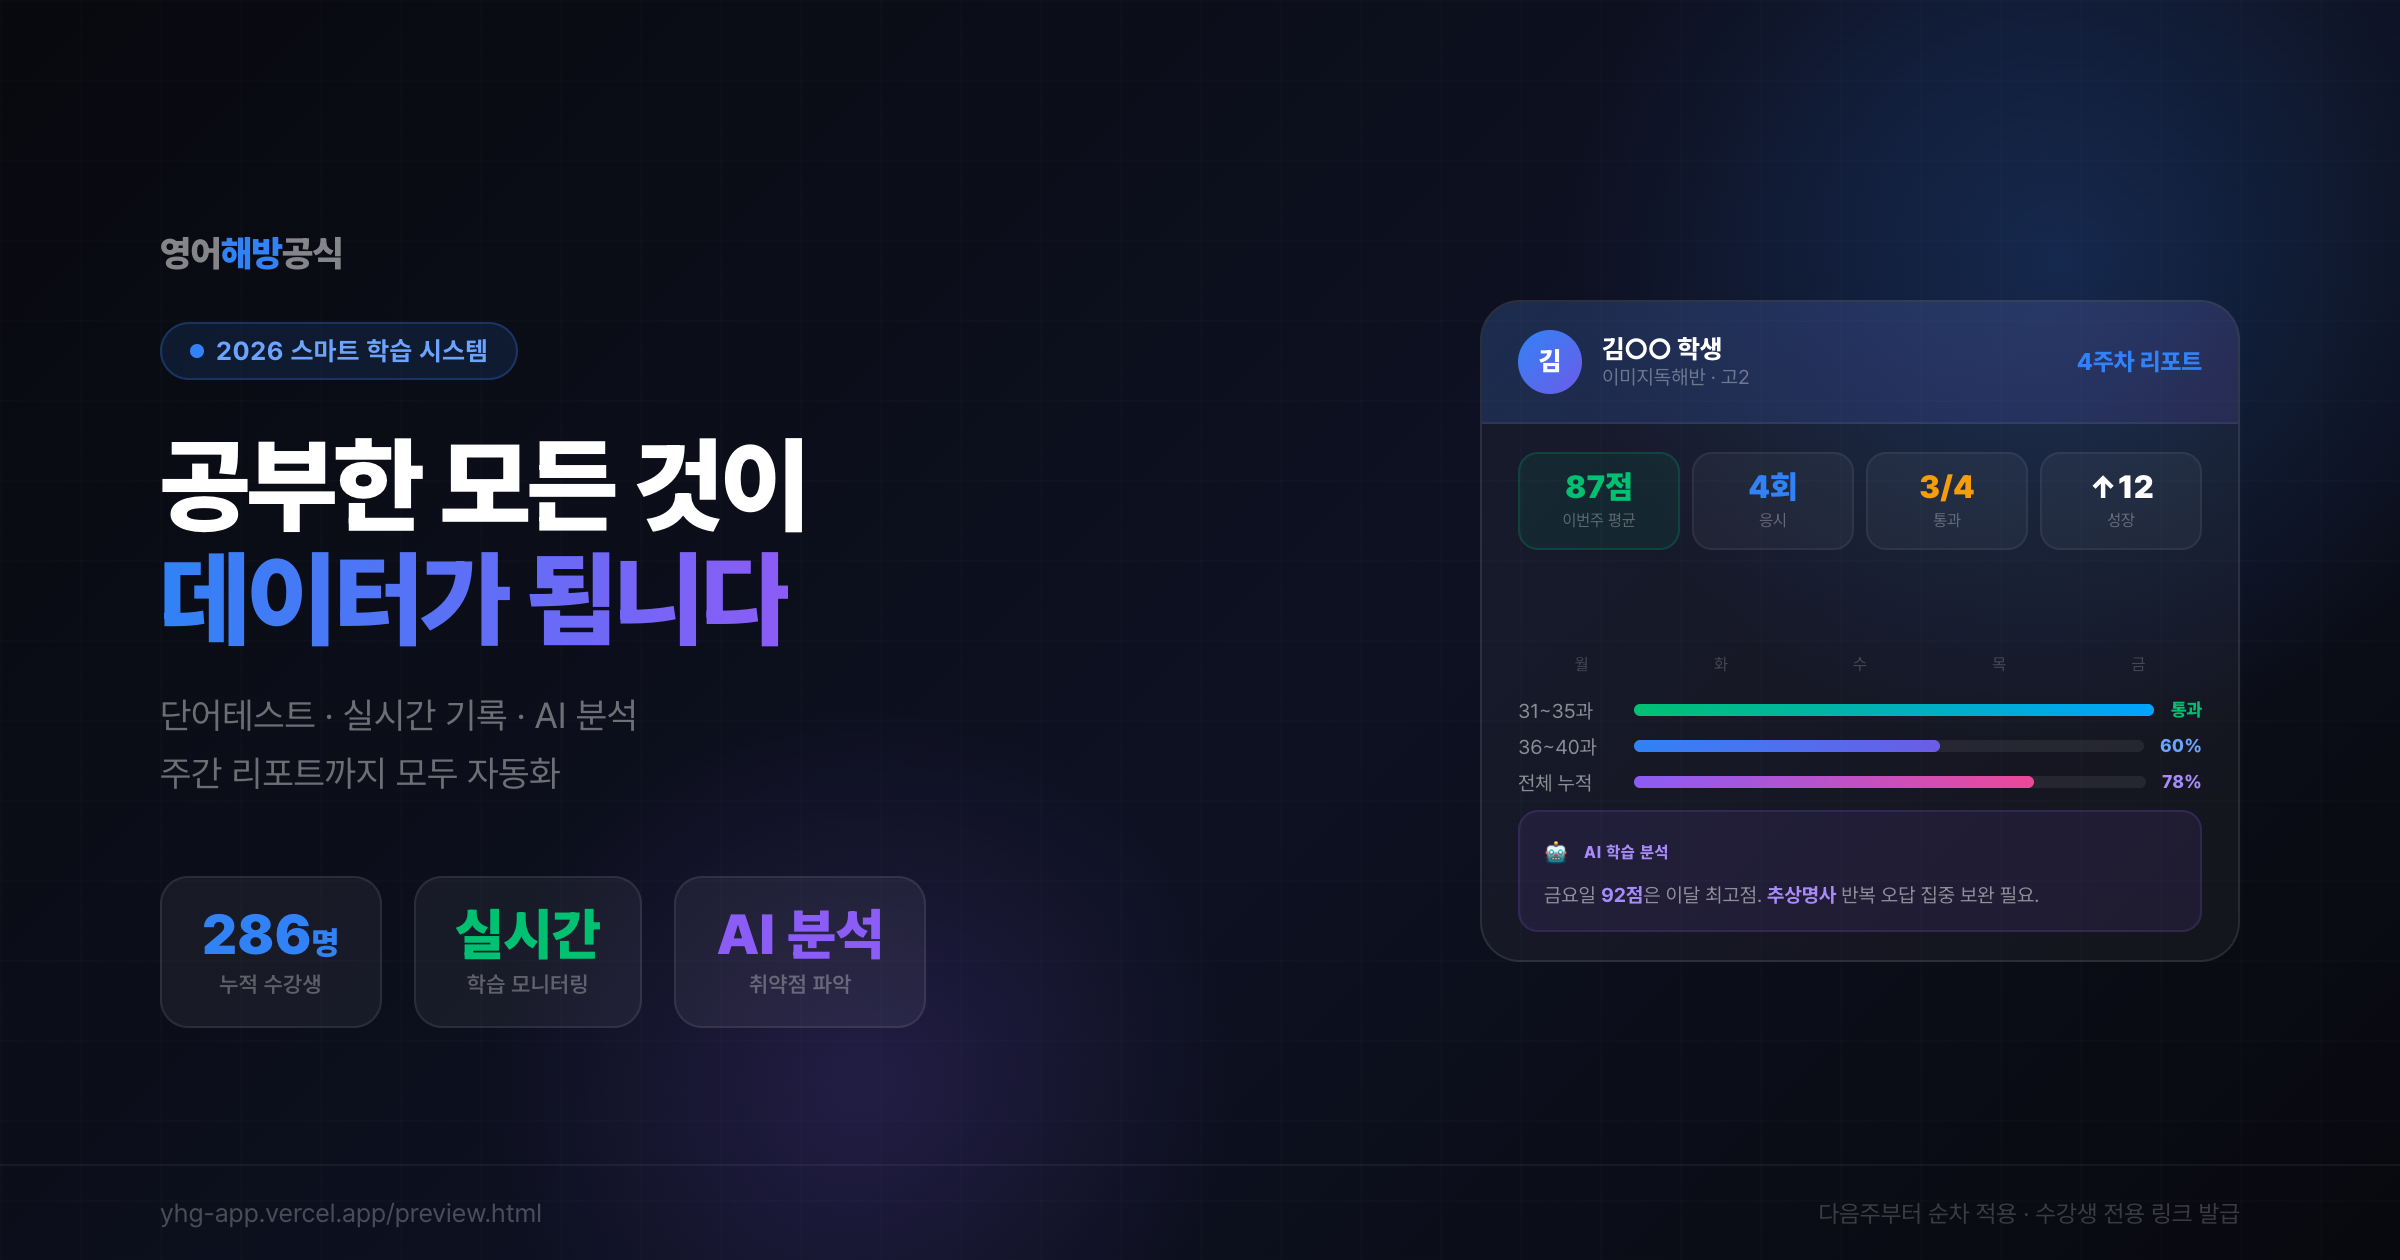
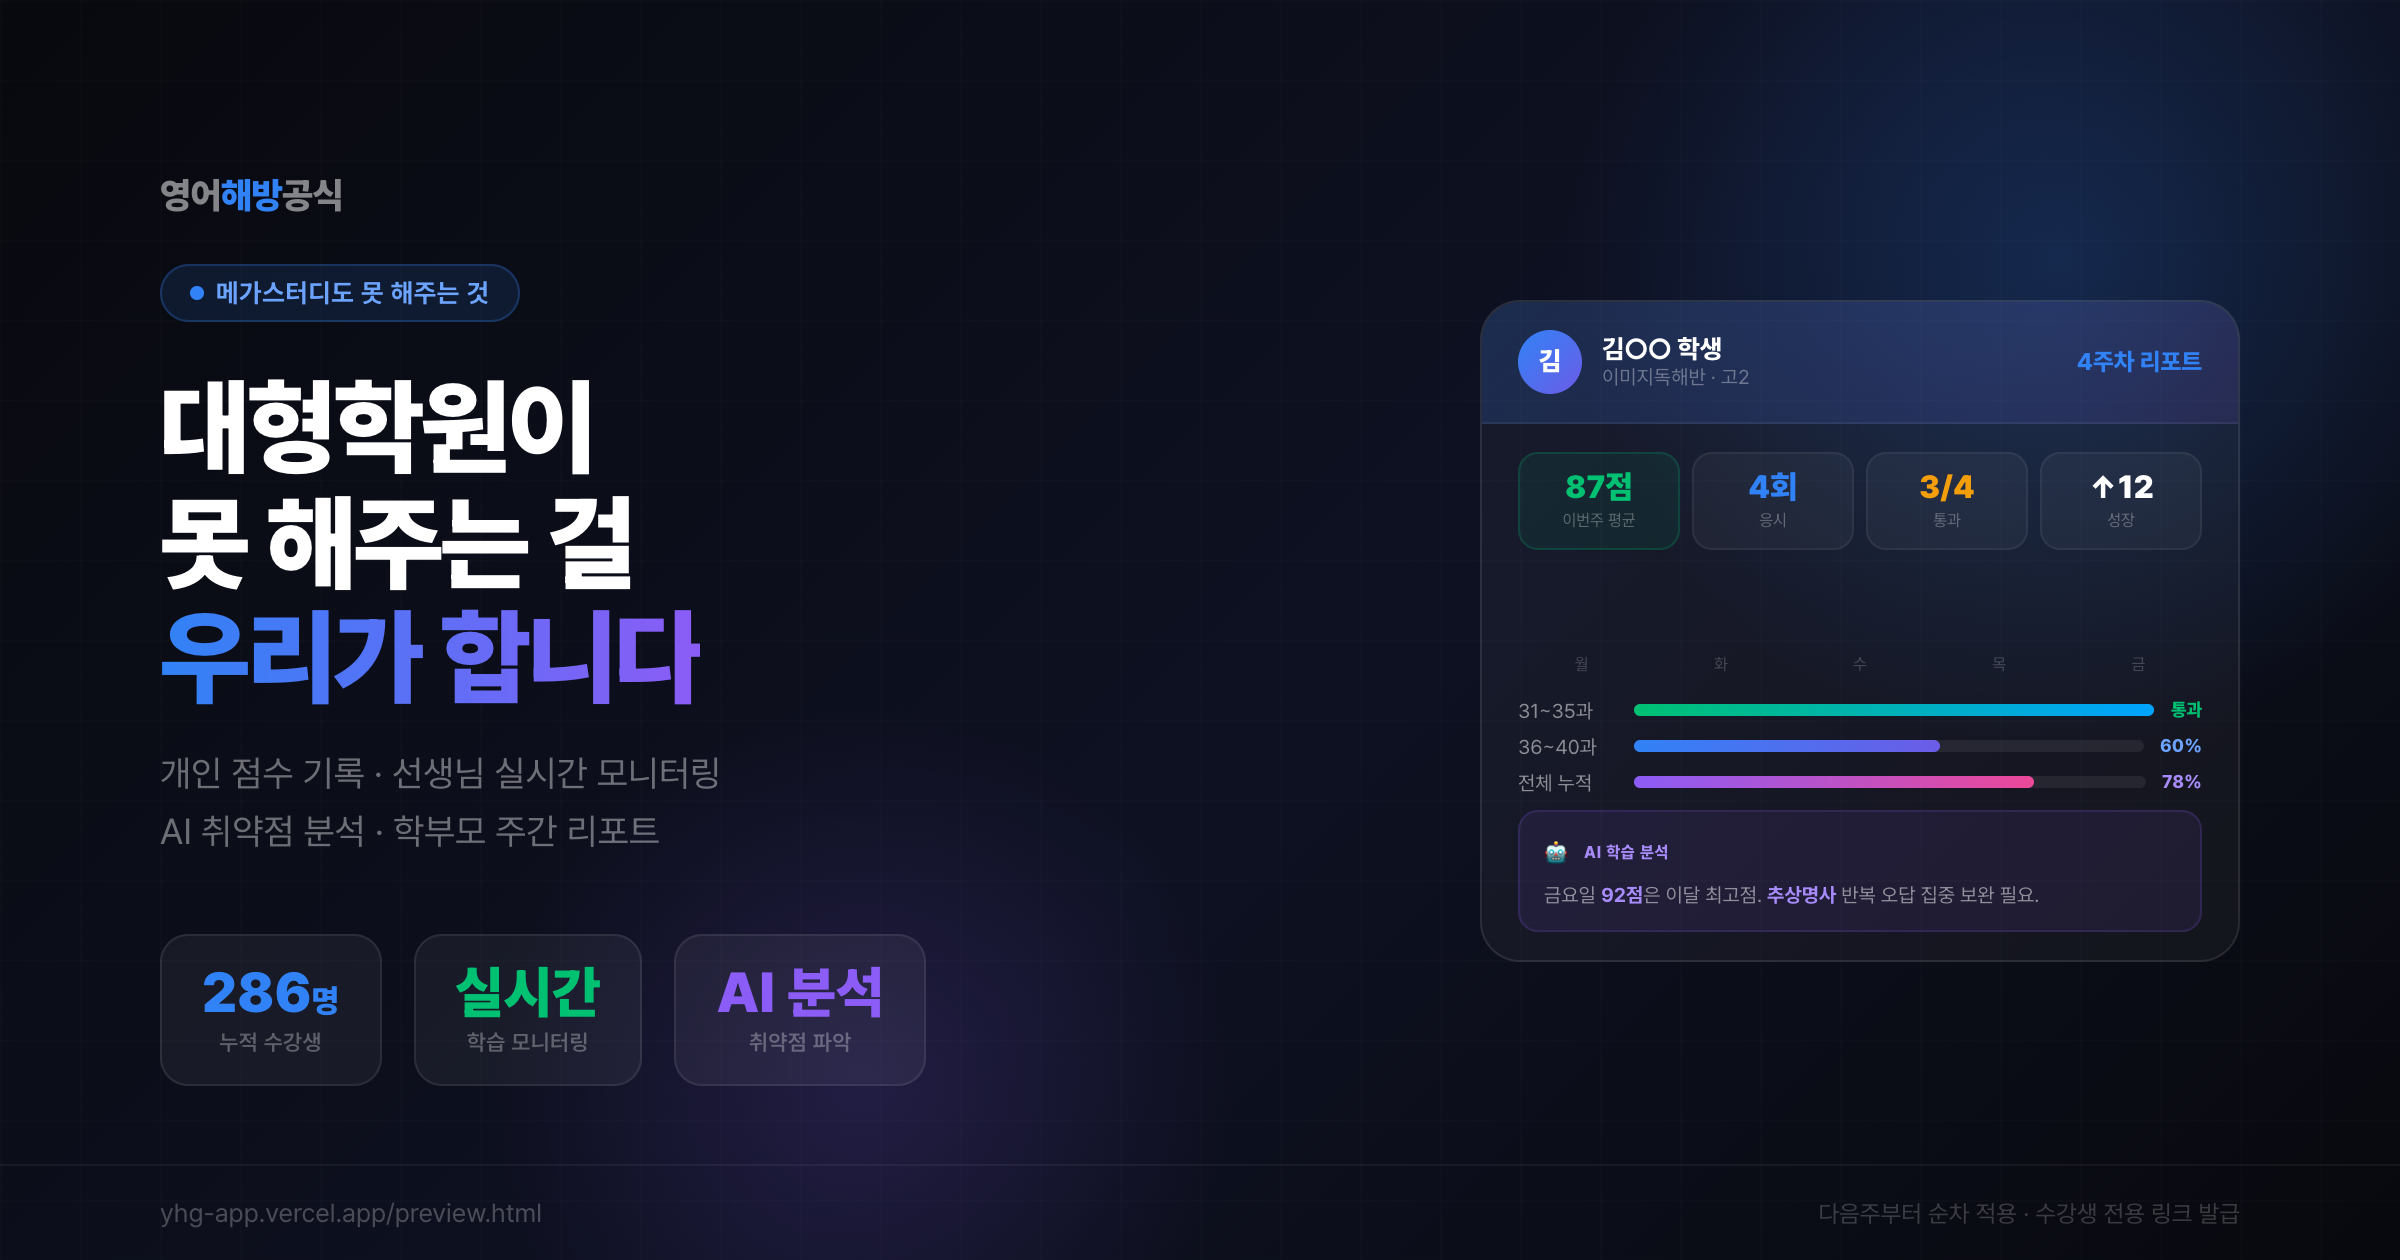
킬러 메시지 강화 — 대형학원 비교 섹션 추가 + 히어로 카피 교체

diff --git a/preview.html b/preview.html
@@ -276,9 +276,9 @@ section{padding:72px 24px;max-width:540px;margin:0 auto;position:relative}
     <div class="live-pill"><span class="live-dot"></span><span class="live-txt">LIVE</span></div>
   </div>
 
-  <div class="section-label">2026 스마트 학습 시스템</div>
-  <h1 class="hero-title">공부한 모든 것이<br><span class="grad">데이터가 됩니다</span></h1>
-  <p class="hero-sub">단어 하나 틀린 것도, 몇 시에 공부했는지도.<br>선생님이 실시간으로 모든 학생을 봅니다.</p>
+  <div class="section-label">영어해방공식만 할 수 있는 것</div>
+  <h1 class="hero-title">메가스터디도<br>못 해주는 것을<br><span class="grad">해드립니다</span></h1>
+  <p class="hero-sub">대형학원은 강의만 줍니다.<br>우리는 <strong style="color:rgba(255,255,255,.8)">내 아이 데이터</strong>를 줍니다.<br>단어 하나 틀린 것도, 선생님이 실시간으로 압니다.</p>
 
   <div class="stats-row">
     <div class="stat">
@@ -303,7 +303,66 @@ section{padding:72px 24px;max-width:540px;margin:0 auto;position:relative}
 
 <div class="section-divider"></div>
 
-<!-- ━━ SECTION 2: PIPELINE ━━ -->
+<!-- ━━ SECTION 2: COMPARISON ━━ -->
+<section id="compare-section" style="background:linear-gradient(180deg,#08090E,#0C0F1A 50%,#08090E)">
+  <div class="section-label">왜 영어해방공식인가</div>
+  <h2 style="font-size:26px;font-weight:900;letter-spacing:-.5px;margin-bottom:8px">대형학원과<br>결정적으로 다릅니다</h2>
+  <p style="font-size:14px;color:rgba(255,255,255,.4);line-height:1.6;margin-bottom:28px">수십만 명을 관리하는 곳에서<br>내 아이 한 명을 볼 수는 없습니다.</p>
+
+  <div style="display:flex;flex-direction:column;gap:10px">
+
+    <!-- 헤더 -->
+    <div style="display:grid;grid-template-columns:1fr 1fr 1fr;gap:8px;padding:0 4px">
+      <div style="font-size:10px;font-weight:700;color:rgba(255,255,255,.25);letter-spacing:.5px;padding-left:4px">항목</div>
+      <div style="font-size:11px;font-weight:800;color:rgba(255,255,255,.25);text-align:center;padding:6px 8px;background:rgba(255,255,255,.03);border-radius:8px">대형학원<br><span style="font-size:9px;font-weight:600;color:rgba(255,255,255,.2)">(메가·대성 등)</span></div>
+      <div style="font-size:11px;font-weight:800;color:#3182F6;text-align:center;padding:6px 8px;background:rgba(49,130,246,.08);border:1px solid rgba(49,130,246,.2);border-radius:8px">영어해방공식</div>
+    </div>
+
+    <!-- ROW -->
+    <div style="display:grid;grid-template-columns:1fr 1fr 1fr;gap:8px;align-items:center">
+      <div style="font-size:12px;font-weight:700;color:rgba(255,255,255,.5);padding-left:4px">내 점수 기록</div>
+      <div style="text-align:center;font-size:18px;padding:10px;background:rgba(255,255,255,.02);border-radius:10px">❌</div>
+      <div style="text-align:center;font-size:18px;padding:10px;background:rgba(49,130,246,.06);border:1px solid rgba(49,130,246,.15);border-radius:10px">✅</div>
+    </div>
+    <div style="display:grid;grid-template-columns:1fr 1fr 1fr;gap:8px;align-items:center">
+      <div style="font-size:12px;font-weight:700;color:rgba(255,255,255,.5);padding-left:4px">선생님이 내 현황 파악</div>
+      <div style="text-align:center;font-size:18px;padding:10px;background:rgba(255,255,255,.02);border-radius:10px">❌</div>
+      <div style="text-align:center;font-size:18px;padding:10px;background:rgba(49,130,246,.06);border:1px solid rgba(49,130,246,.15);border-radius:10px">✅</div>
+    </div>
+    <div style="display:grid;grid-template-columns:1fr 1fr 1fr;gap:8px;align-items:center">
+      <div style="font-size:12px;font-weight:700;color:rgba(255,255,255,.5);padding-left:4px">숙제 자동 체크</div>
+      <div style="text-align:center;font-size:18px;padding:10px;background:rgba(255,255,255,.02);border-radius:10px">❌</div>
+      <div style="text-align:center;font-size:18px;padding:10px;background:rgba(49,130,246,.06);border:1px solid rgba(49,130,246,.15);border-radius:10px">✅</div>
+    </div>
+    <div style="display:grid;grid-template-columns:1fr 1fr 1fr;gap:8px;align-items:center">
+      <div style="font-size:12px;font-weight:700;color:rgba(255,255,255,.5);padding-left:4px">개인 취약점 분석</div>
+      <div style="text-align:center;font-size:18px;padding:10px;background:rgba(255,255,255,.02);border-radius:10px">❌</div>
+      <div style="text-align:center;font-size:18px;padding:10px;background:rgba(49,130,246,.06);border:1px solid rgba(49,130,246,.15);border-radius:10px">✅</div>
+    </div>
+    <div style="display:grid;grid-template-columns:1fr 1fr 1fr;gap:8px;align-items:center">
+      <div style="font-size:12px;font-weight:700;color:rgba(255,255,255,.5);padding-left:4px">학부모 주간 리포트</div>
+      <div style="text-align:center;font-size:18px;padding:10px;background:rgba(255,255,255,.02);border-radius:10px">❌</div>
+      <div style="text-align:center;font-size:18px;padding:10px;background:rgba(49,130,246,.06);border:1px solid rgba(49,130,246,.15);border-radius:10px">✅</div>
+    </div>
+    <div style="display:grid;grid-template-columns:1fr 1fr 1fr;gap:8px;align-items:center">
+      <div style="font-size:12px;font-weight:700;color:rgba(255,255,255,.5);padding-left:4px">AI 개인 학습 추천</div>
+      <div style="text-align:center;font-size:18px;padding:10px;background:rgba(255,255,255,.02);border-radius:10px">❌</div>
+      <div style="text-align:center;font-size:18px;padding:10px;background:rgba(49,130,246,.06);border:1px solid rgba(49,130,246,.15);border-radius:10px">✅</div>
+    </div>
+
+    <!-- 결론 -->
+    <div style="margin-top:8px;padding:16px 20px;background:linear-gradient(135deg,rgba(49,130,246,.1),rgba(139,92,246,.07));border:1px solid rgba(49,130,246,.2);border-radius:16px;text-align:center">
+      <div style="font-size:13px;font-weight:800;color:#fff;line-height:1.6">
+        대형학원은 <span style="color:rgba(255,255,255,.4)">강의를</span> 팝니다.<br>
+        영어해방공식은 <span style="background:linear-gradient(90deg,#3182F6,#8B5CF6);-webkit-background-clip:text;-webkit-text-fill-color:transparent;font-weight:900">1:1 관리</span>를 합니다.
+      </div>
+    </div>
+  </div>
+</section>
+
+<div class="section-divider"></div>
+
+<!-- ━━ SECTION 3: PIPELINE ━━ -->
 <section id="pipeline">
   <div class="section-label">학습 자동화 파이프라인</div>
   <h2 class="pipe-title">한 번 공부하면<br>모든 게 자동으로</h2>
